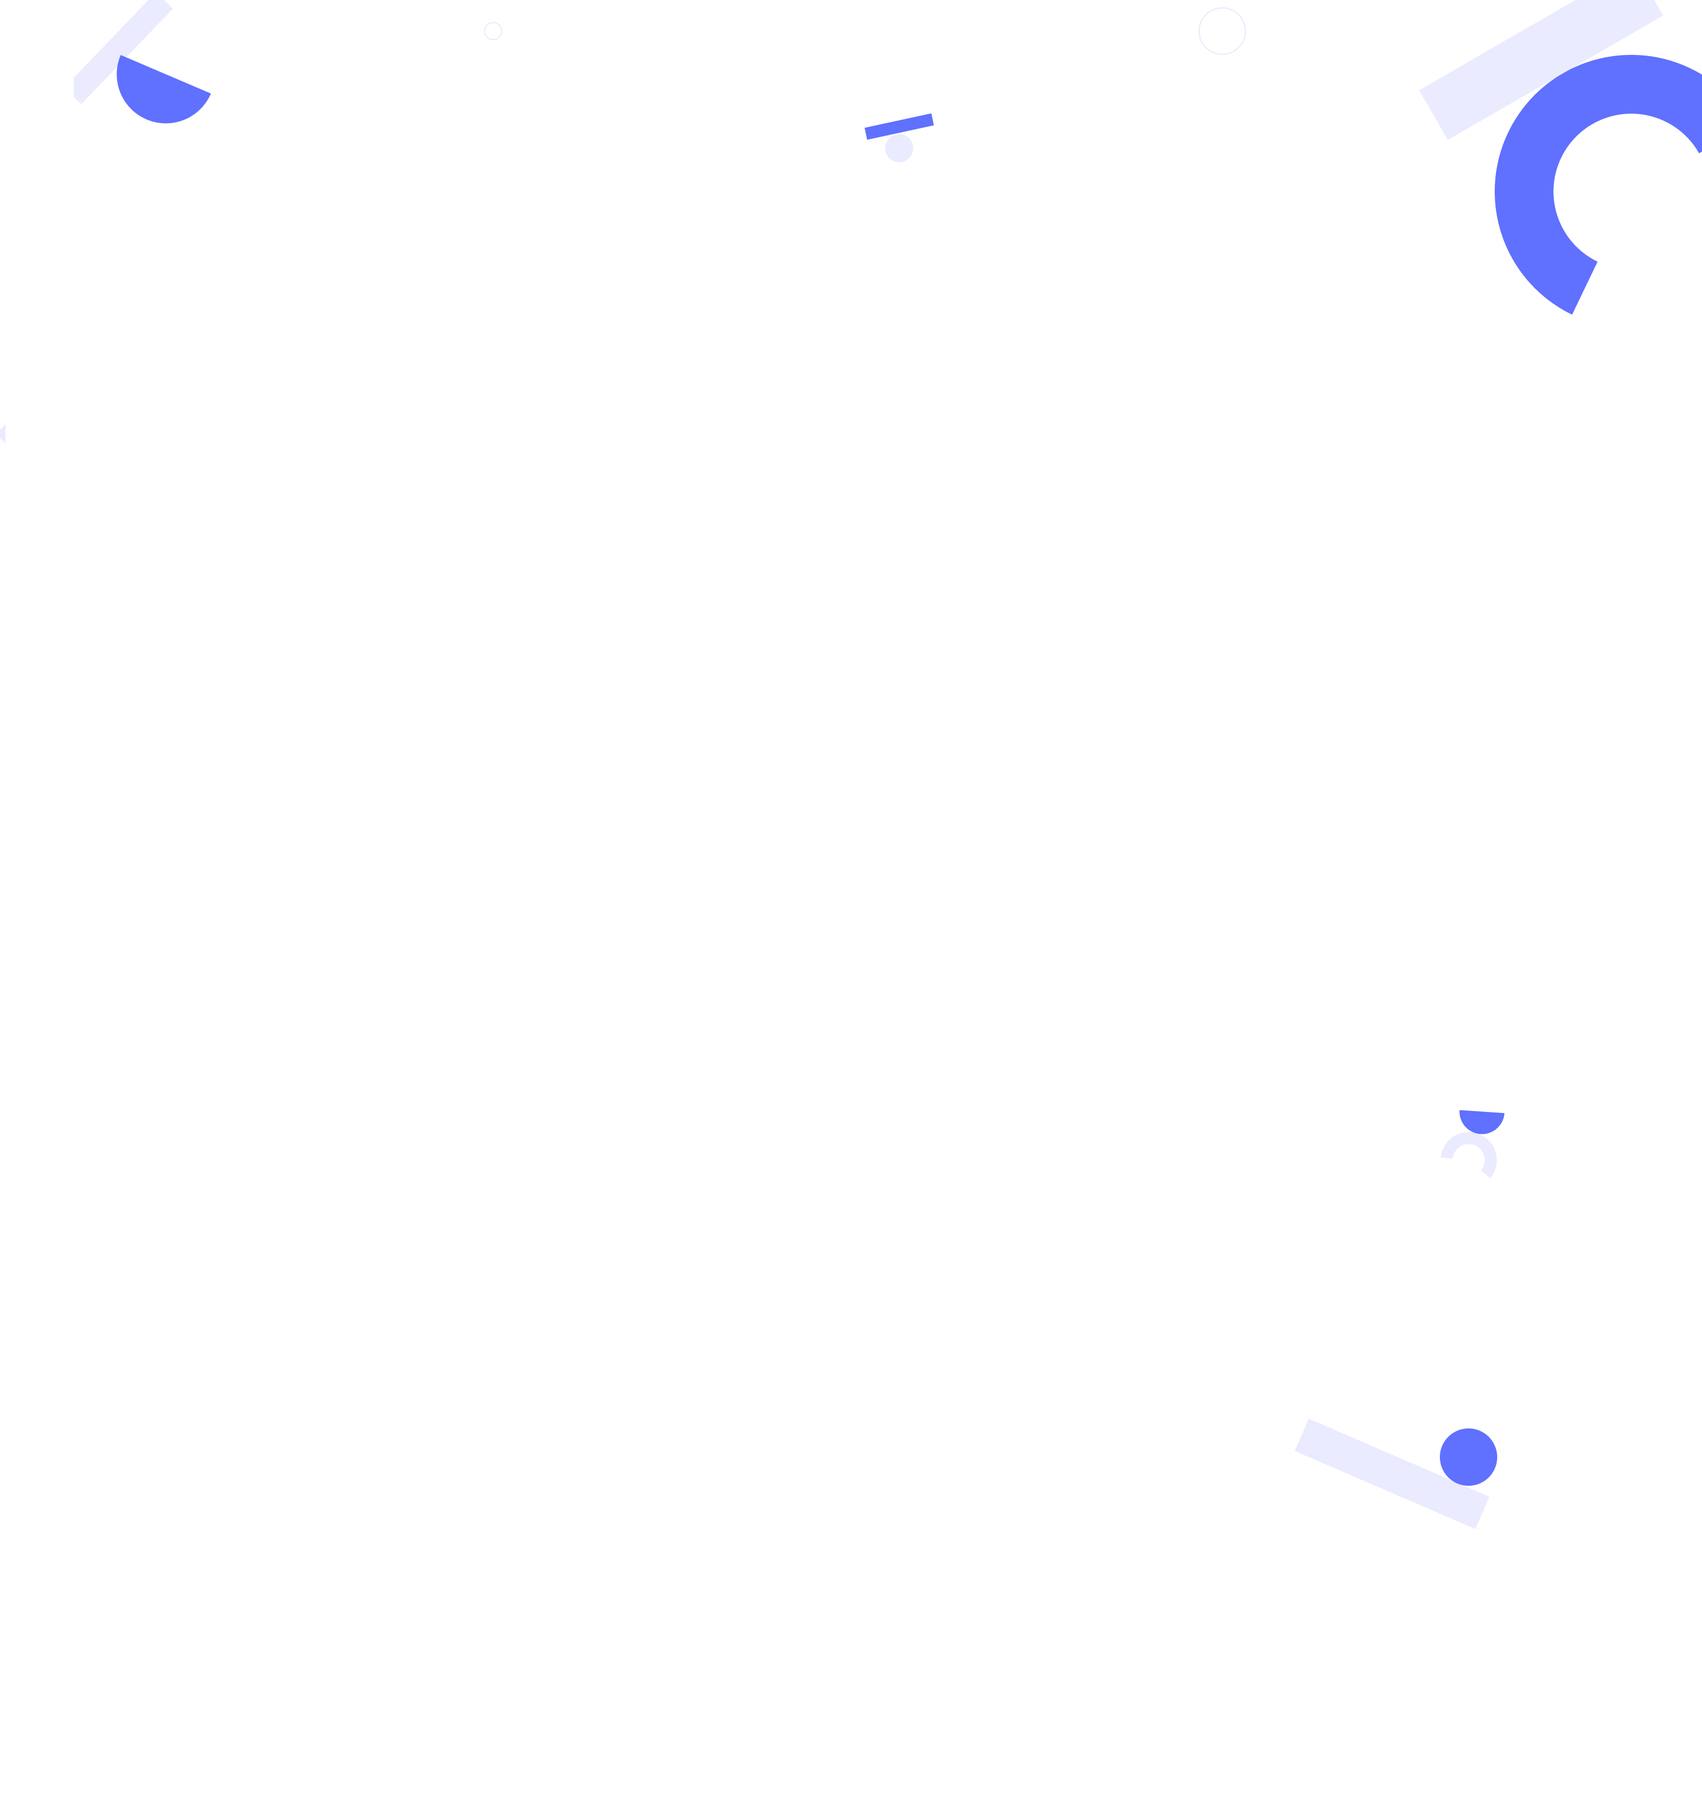
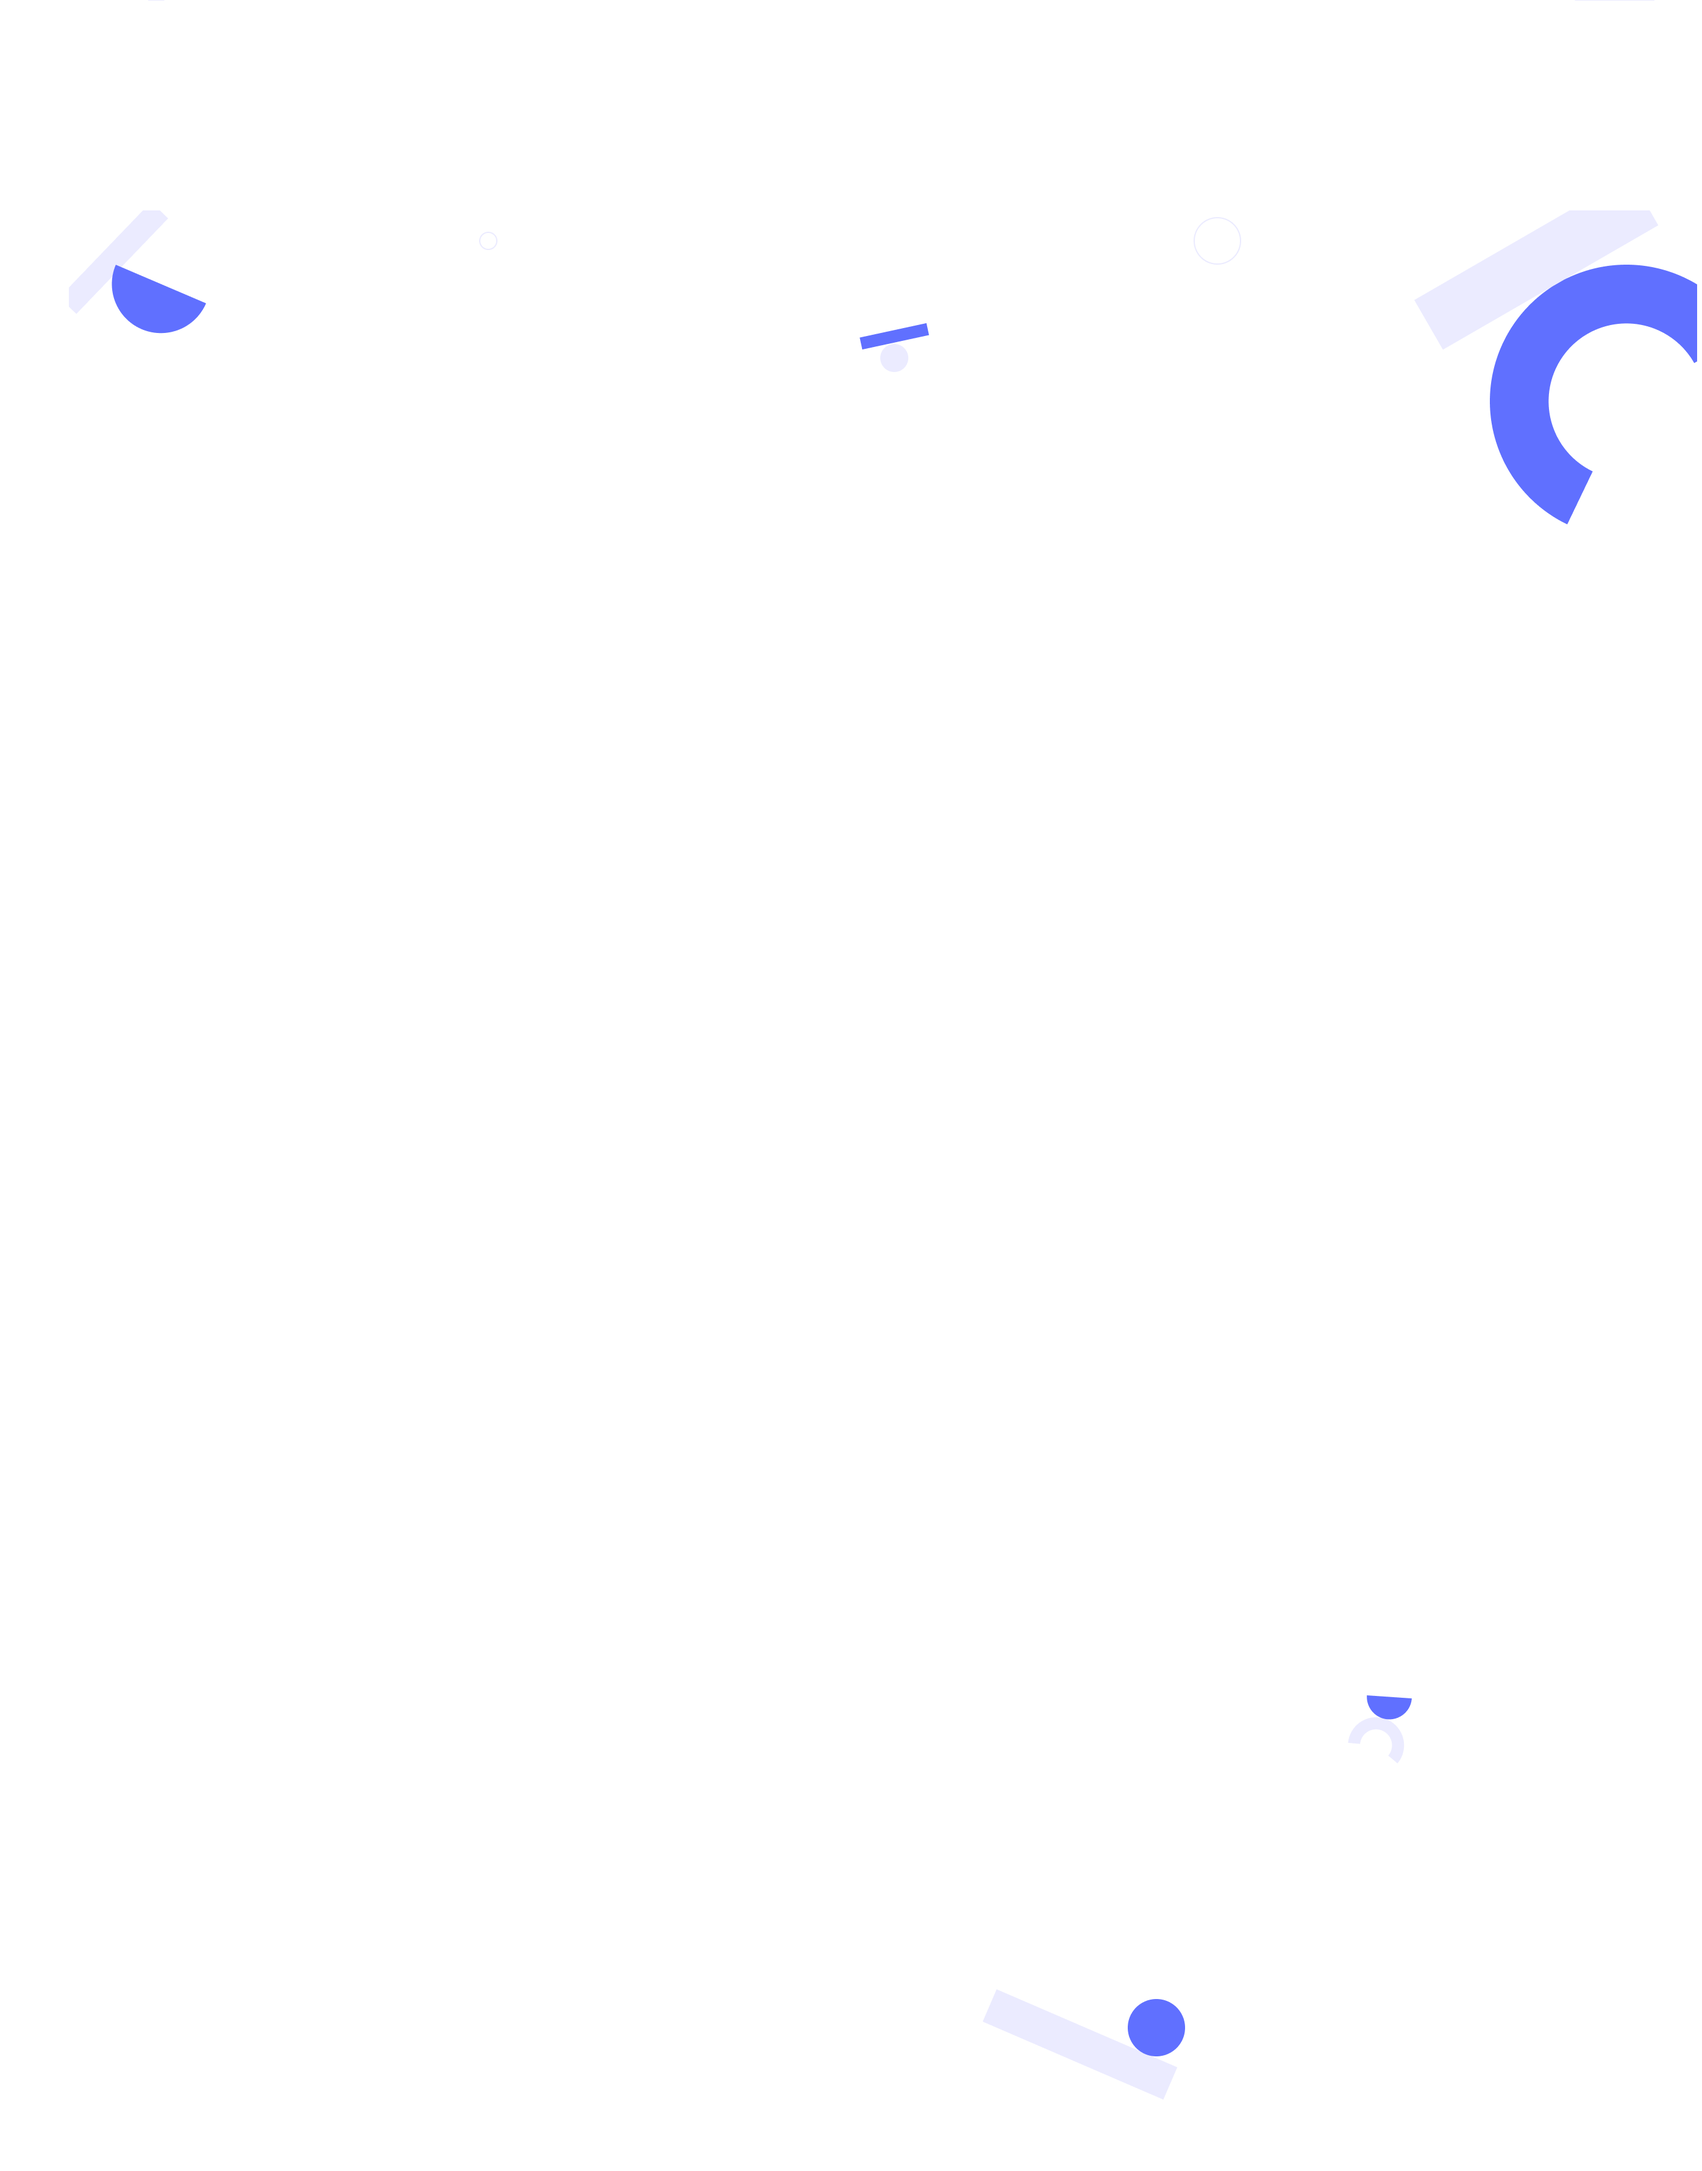
Fix image size

diff --git a/index.css b/index.css
@@ -1,24 +1,50 @@
-/* @import url('https://fonts.googleapis.com/css2?family=Lacquer&family=Poppins&display=swap'); */
 @import url('https://fonts.googleapis.com/css2?family=Poppins:wght@400;500;600;700&display=swap');
+
 * {
   margin: 0;
   padding: 0;
   font-family: 'Poppins', Arial, Helvetica, sans-serif;
 }
 
-.main-section {
-  background-image: url('./img/background_image2.png');
-  /* background-size: 100%; */
-  background-size: cover;
-  /* background-repeat: no-repeat; */
-  /* background-position: center; */
-  /* background-attachment: fixed; */
-}
-
 a,
 .second-section ul {
   text-decoration: none;
   list-style: none;
+}
+
+body {
+  background-image: url('./img/header-shapes mobile.png');
+  background-repeat: no-repeat;
+  background-position-y: bottom;
+}
+
+.main-section h1 {
+  font-weight: 700;
+  color: #172b4d;
+  font-size: 40px;
+  margin-top: 40px;
+}
+
+.main-section {
+  display: flex;
+  flex-direction: column;
+  margin: 5% 5%;
+}
+
+.main-section > * {
+  padding: 10px;
+}
+
+.main-section p {
+  color: #344563;
+  font-size: 16px;
+  font-weight: 400;
+}
+
+.second-section ul {
+  display: flex;
+  flex-direction: row;
+  margin: 10px 0;
 }
 
 .header-bar {
@@ -34,37 +60,10 @@ a,
   font-weight: bold;
 }
 
-.main-section h1 {
-  font-weight: 700;
-  color: #172b4d;
-  font-size: 40px;
-}
-
-.main-section {
-  display: flex;
-  flex-direction: column;
-  margin: 5% 25%;
-}
-
-.main-section > * {
-  padding: 20px;
-}
-
-.main-section p {
-  color: #344563;
-  font-size: 16px;
-  font-weight: 400;
-}
-
-.second-section ul {
-  display: flex;
-  flex-direction: row;
-  margin: 10px 0;
-}
-
 .second-section ul li {
   padding: 10px;
   margin-left: -10px;
+  margin-right: 15px;
 }
 
 .second-section ul li a img:hover {
@@ -74,6 +73,8 @@ a,
 .second-section h3 {
   color: #7f8cff;
   font-size: 16px;
+  margin: 20px auto;
+  font-weight: 500;
 }
 
 .header-bar div {
@@ -91,24 +92,4 @@ a,
   height: 2px;
   border-radius: 3px;
   background-color: #6070ff;
-}
-
-@media all and (min-width: 375px) {
-  body {
-    font-size: 16px;
-  }
-}
-
-@media all and (max-width: 768px) {
-  /* .header-bar ul {
-    display: none;
-  } */
-
-  /* .header-bar header {
-    text-align: center;
-  } */
-
-  .main-section {
-    margin: 5% 5%;
-  }
 }
